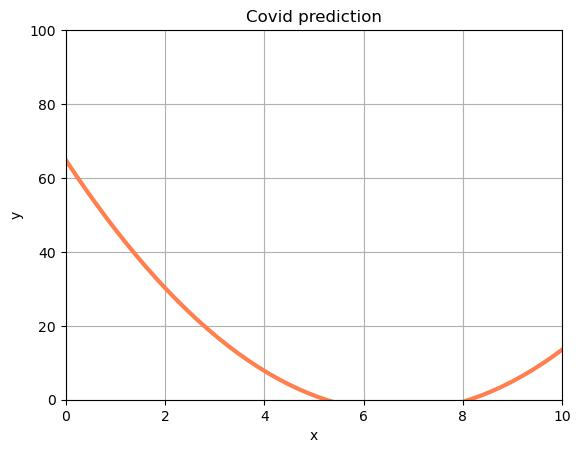
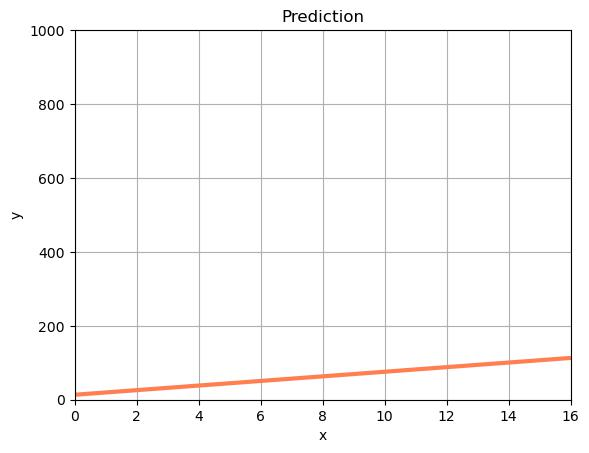
comparative data

diff --git a/app/proyecto2.py b/app/proyecto2.py
@@ -1,20 +1,20 @@
 import datetime as dt
-from matplotlib import colors
 
 import matplotlib.pyplot as plt
 import numpy as np
 import pandas as pd
-from pandas.core import groupby
 import plotly
 import plotly.express as px
 import plotly.figure_factory as ff
 import seaborn as sns
-from sklearn import linear_model
 import streamlit as st
+from matplotlib import colors
 from pandas._config.config import options
+from pandas.core import groupby
 from pandas.core.algorithms import mode
 from pandas.core.frame import DataFrame
 from PIL import Image
+from sklearn import linear_model
 from sklearn.linear_model import LinearRegression
 from sklearn.metrics import mean_squared_error, r2_score
 from sklearn.preprocessing import PolynomialFeatures
@@ -24,7 +24,7 @@ from streamlit.elements.arrow import Data
 # from coviddeaths import covidDeathsByCountry,covidDeathsPredictionByDep
 
 
-def generatePredictionGraph(y: DataFrame, grade, days):
+def generatePredictionGraph(y: DataFrame, grade, days, max_val):
 
     X = []
     Y = y
@@ -48,7 +48,7 @@ def generatePredictionGraph(y: DataFrame, grade, days):
     plt.show()
     st.pyplot()
 
-    st.write(Y)
+    # st.write(Y)
     # Step 2: Data preparation
     nb_degree = grade
 
@@ -84,17 +84,19 @@ def generatePredictionGraph(y: DataFrame, grade, days):
 
     plt.grid()
     plt.xlim(x_new_min, x_new_max)  ## X axis
-    #plt.ylim(Y_NEW[int(x_new_min)], Y_NEW[int(x_new_max)])
-    plt.ylim(0, 100)
+
+    plt.ylim(0, 1000)
+    #plt.ylim(0, Y_NEW[int(x_new_max)])
     #title = 'Degree={ }; RMSE={ }; R2={ }'.format(nb_degree, round(rmse, 2), round(r2, 2))
-    plt.title('Covid prediction')
+    plt.title('Prediction')
     plt.xlabel('x')
     plt.ylabel('y')
 
     plt.savefig('pol_reg.jpg', bbox_inches='tight')
     plt.show()
     st.pyplot()
-    print(Y_NEW)
+    st.write("The prediction will be ", Y_NEW[int(x_new_max)][0])
+    st.write(Y_NEW)
     pass
 
 
@@ -170,16 +172,118 @@ def covidInfectedPredictionByCountry(data: DataFrame):
 
 # Indice de Progresión de la pandemia.
 
+
 # Predicción de mortalidad por COVID en un Departamento.
+def covidDeathsPredictionByDeparment(data: DataFrame):
+
+    try:
+        # date, state, cases
+        data_options = st.multiselect(
+            'Select fields [date, region, cases, filter]: ', data.columns)
+
+        date_ = data_options[0]
+        region = data_options[1]
+        cases = data_options[2]
+        flter = data_options[3]
+
+        st.write(data_options)
+
+        country_option = st.selectbox('Select country',
+                                      data[region].drop_duplicates())
+
+        ## select states
+        c = [country_option]
+        cs = data[data[region].isin(c)]
+
+        province = st.selectbox('Select state/province/department',
+                                cs[flter].drop_duplicates())
+
+        # Filter by deparment/state
+        dep = cs[data[flter].isin([province])]
+
+        ## convert dates
+        dep[date_] = pd.to_datetime(dep[date_])
+        dep = dep.sort_values(by=date_)
+        st.write(dep[[date_, cases]])
+
+        y = dep[cases]
+
+        # slider
+        n_days = st.slider('Select number of days to predict: ', 5, 100)
+        grade = st.slider('Select grade of the regression: ', 1, 3)
+        max_val = dep[cases].max()
+
+        generatePredictionGraph(y, grade, n_days, max_val)
+
+    except Exception as e:
+        st.write(e)
+        st.warning('Select a field')
 
 
 # Ánalisis Comparativo entres 2 o más paises o continentes.
 def covidComparative(data: DataFrame):
 
-    option = st.selectbox('Select type of comparation: ',
-                          ('Countries', 'Continents'))
+    try:
 
-    pass
+        option = st.multiselect('Select field and variable of comparation [place, variable, group by] : ', data.columns)
+
+        place = option[0]
+        variable  = option[1]
+        col1, col2 = st.columns(2)
+
+
+        with col1:
+
+            st.subheader('Select Place 1:')
+            country1 = st.selectbox('Select country 1: ', data[place].drop_duplicates())
+            p1 = data[data[place].isin([country1])]
+
+            # st.write(p1[variable].sum())
+            t1 = p1[variable].sum()
+
+        with col2:
+
+            st.subheader('Select Place 2:')
+            country2 = st.selectbox('Select country 2: ', data[place].drop_duplicates()) 
+            p2 = data[data[place].isin([country2])]
+
+            # st.write(p2[variable].sum())
+            t2 = p2[variable].sum()
+             
+
+        ## Graph
+        plotdata = pd.DataFrame({
+            str(variable): [t1, t2],
+        },
+            index=[country1, country2]
+        )
+
+        plotdata.plot(kind="bar", color="green")
+        plt.title("Comparative")
+        st.pyplot()
+
+    except Exception as e:
+
+            st.write(e)
+            st.warning('Error :(')
+
+    
+
+    # if option == 'Countries':
+
+        
+
+    # elif option == 'Continents':
+
+    #     col1, col2 = st.columns(2)
+
+    #     with col1:
+    #         st.subheader('Select Continent 1:')
+    #         continent1 = st.selectbox('Select continent 1: ', data.columns)
+
+    #     with col2:
+    #         st.subheader('Select Continent 2:')
+    #         continent2 = st.selectbox('Select continent 2: ', data.columns)
 
 
 # Tendencia del número de infectados por día de un País
@@ -545,12 +649,13 @@ if upload_file is not None:
 
         select_report = st.selectbox('Select report', covid_deaths_tuple)
 
-        # st.write(data)
+        st.write(data)
         if select_report == 'Análisis del número de muertes por coronavirus en un País.':
             covidDeathsByCountry(data)
+
         elif select_report == 'Predicción de mortalidad por COVID en un Departamento.':
-            # covidDeathsPredictionByDep(data)
-            pass
+            covidDeathsPredictionByDeparment(data)
+
         elif select_report == 'Predicción de mortalidad por COVID en un País':
             covidDeathPredictionByCountry(data)
 
